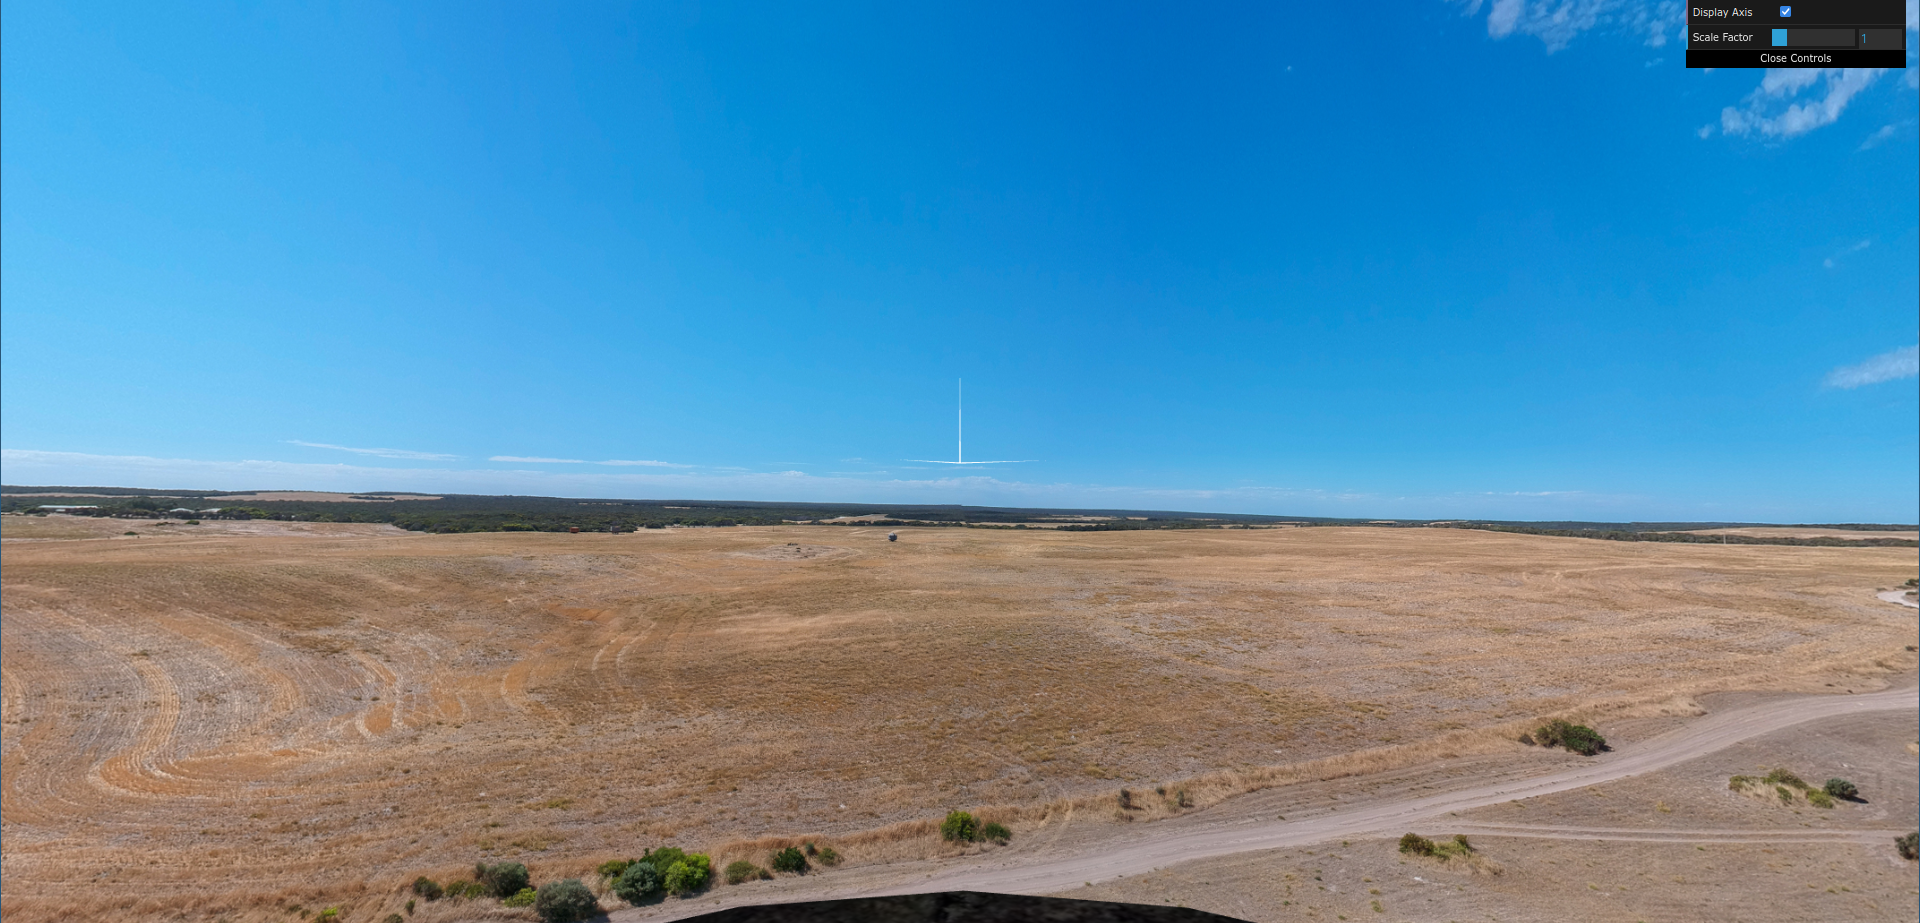
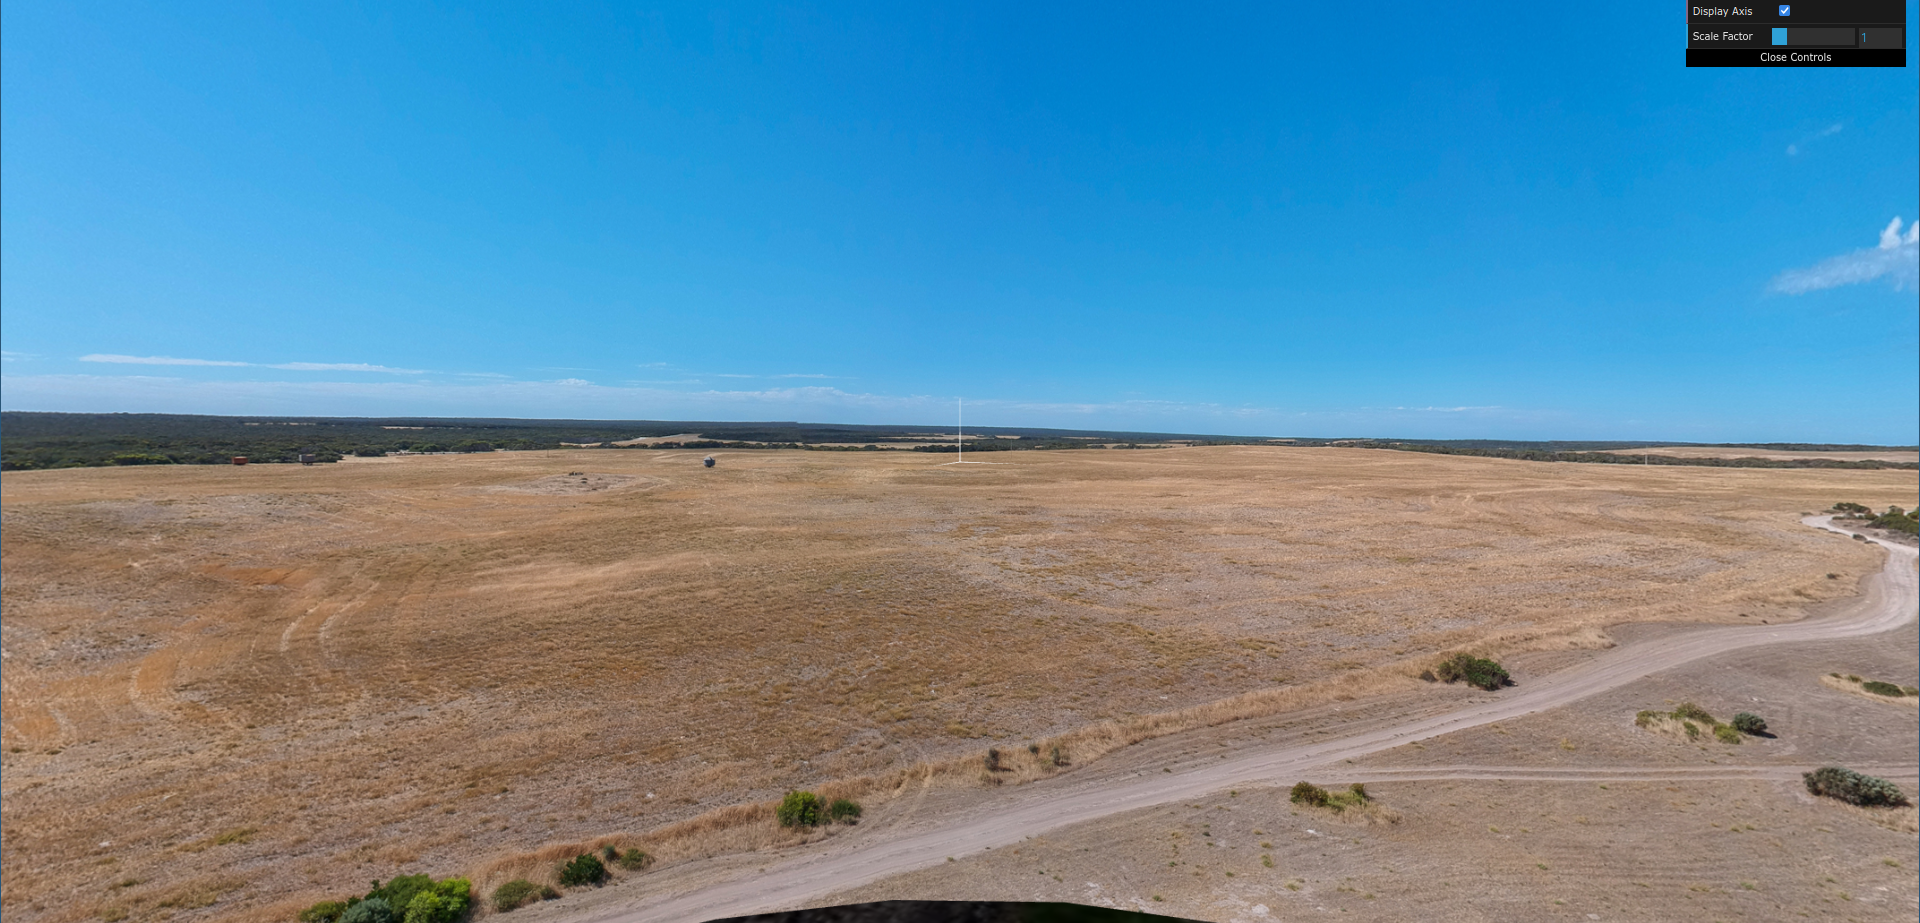
Move panorama to camera position

diff --git a/project/MyPanorama.js b/project/MyPanorama.js
@@ -16,7 +16,7 @@ export class MyPanorama extends CGFobject{
         this.appearance.setSpecular(0,0,0,0);
         this.appearance.setEmission(1,1,1,1)
         this.appearance.setTexture(texture)
-        this.sphere = new MySphere(scene, 20, 20, true)
+        this.sphere = new MySphere(scene, 30, 30, true)
 	}
 
     /**
@@ -29,6 +29,9 @@ export class MyPanorama extends CGFobject{
         this.appearance.apply()
 
         this.scene.pushMatrix()
+
+        const cameraPos = this.scene.camera.position
+        this.scene.translate(cameraPos[0], cameraPos[1], cameraPos[2])
 
         this.scene.scale(200, 200, 200)
 
